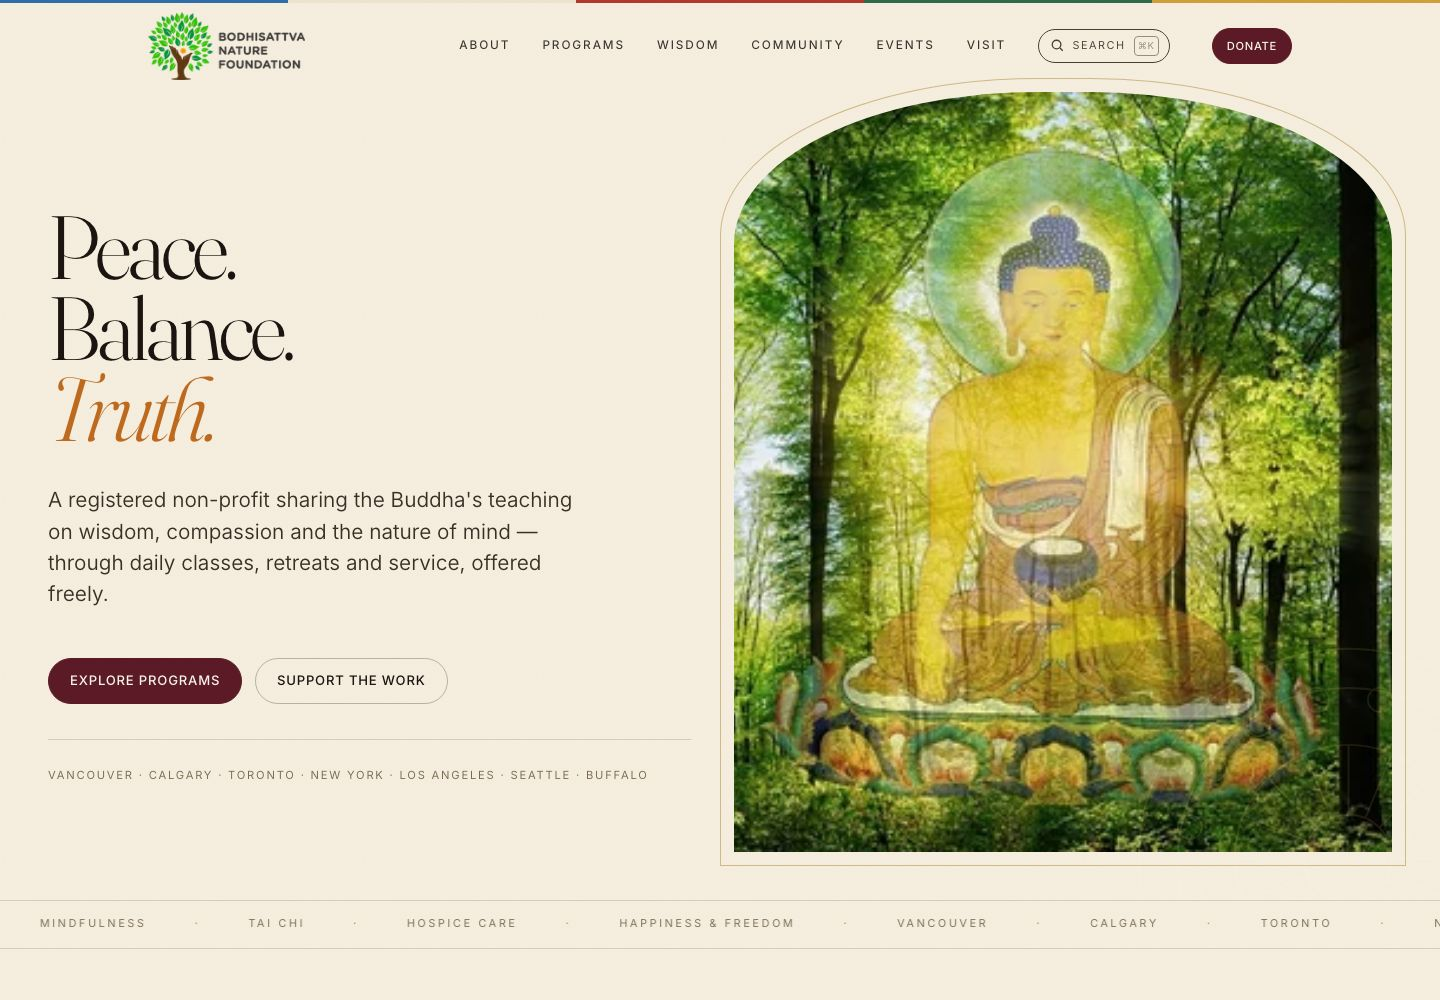
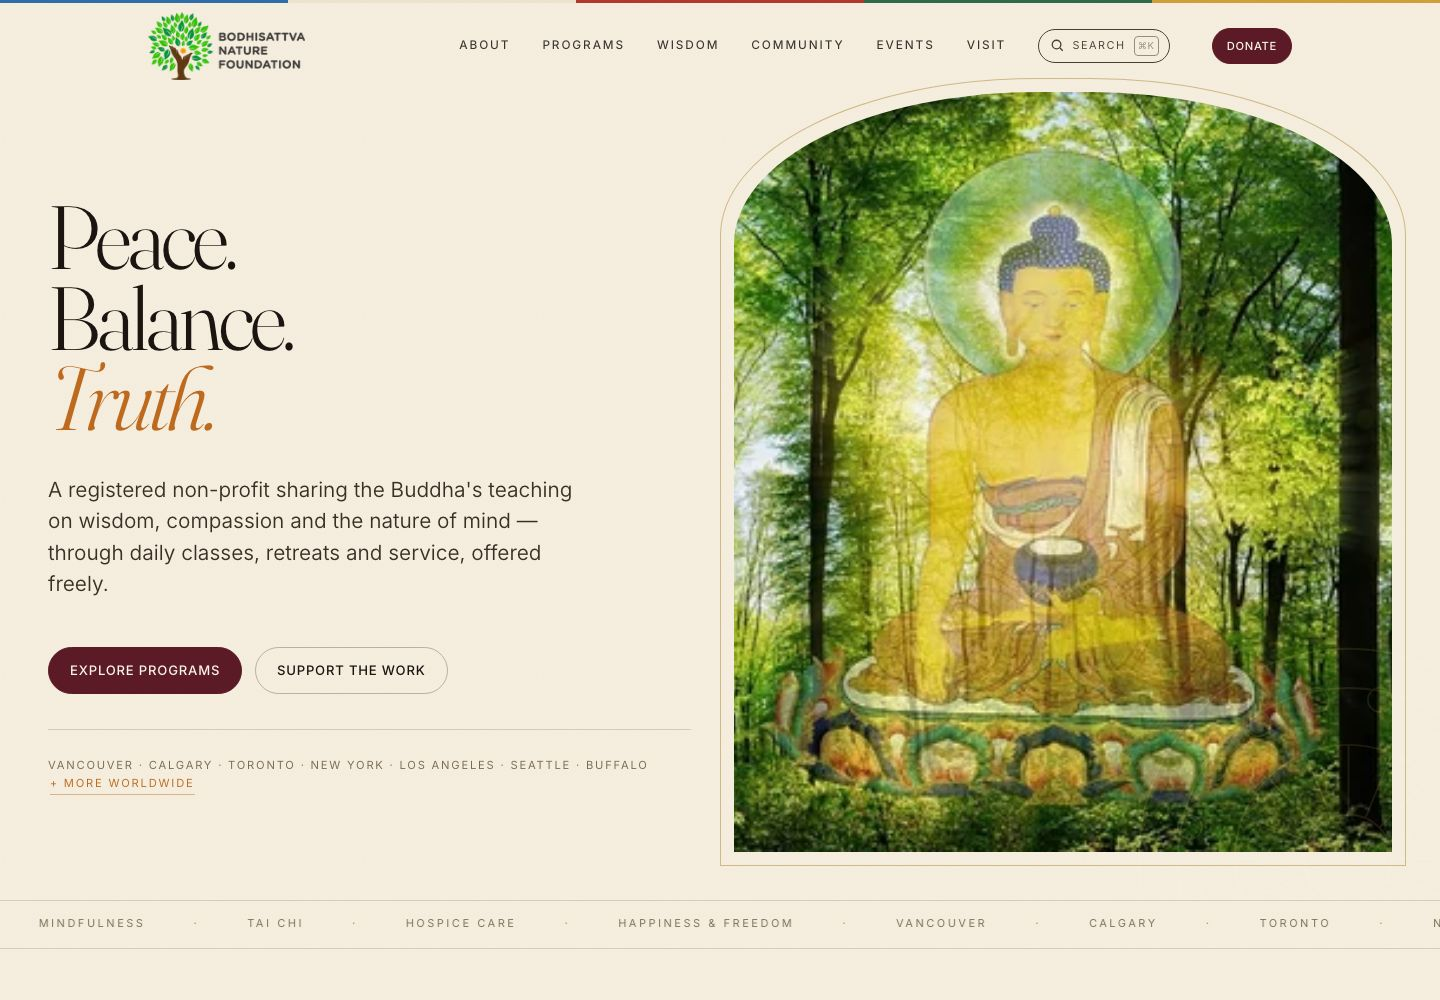
Point the hero location line at the wider world
Seven cities is not the whole picture, so the line ends with '+ more
worldwide', linked to the spiritual-connections section on the contact
page (now anchored at #connections and offset for the fixed header).

diff --git a/site/src/styles/global.css b/site/src/styles/global.css
@@ -529,6 +529,17 @@ a {
   color: var(--muted);
 }
 
+.hero__more {
+  display: inline-block;
+  margin-left: 0.15em;
+  color: var(--saffron);
+  border-bottom: 1px solid rgba(191, 106, 30, 0.45);
+  padding-bottom: 1px;
+  transition: color 0.3s var(--ease), border-color 0.3s var(--ease);
+}
+
+.hero__more:hover { color: var(--ink); border-color: var(--ink); }
+
 .hero__media {
   position: relative;
   overflow: visible;
@@ -569,7 +580,18 @@ a {
 
 @media (max-width: 900px) {
   .hero { grid-template-columns: 1fr; min-height: 0; }
-  .hero__media {
+  .hero__more {
+  display: inline-block;
+  margin-left: 0.15em;
+  color: var(--saffron);
+  border-bottom: 1px solid rgba(191, 106, 30, 0.45);
+  padding-bottom: 1px;
+  transition: color 0.3s var(--ease), border-color 0.3s var(--ease);
+}
+
+.hero__more:hover { color: var(--ink); border-color: var(--ink); }
+
+.hero__media {
     order: -1;
     aspect-ratio: 4 / 5;
     min-height: 0;
